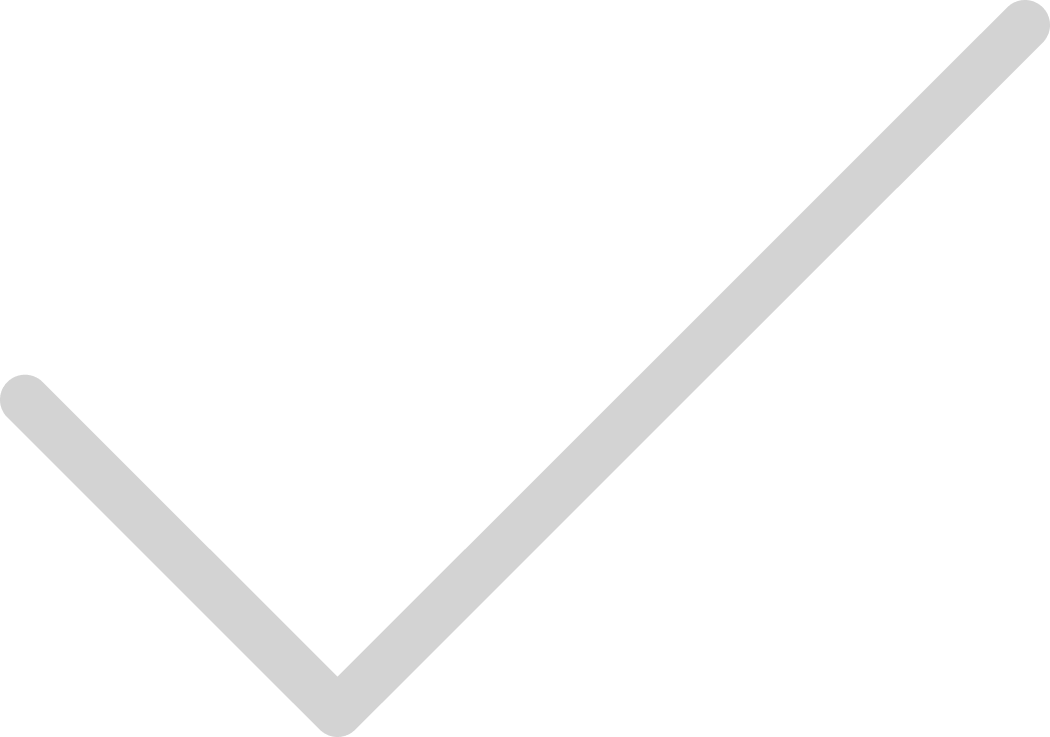
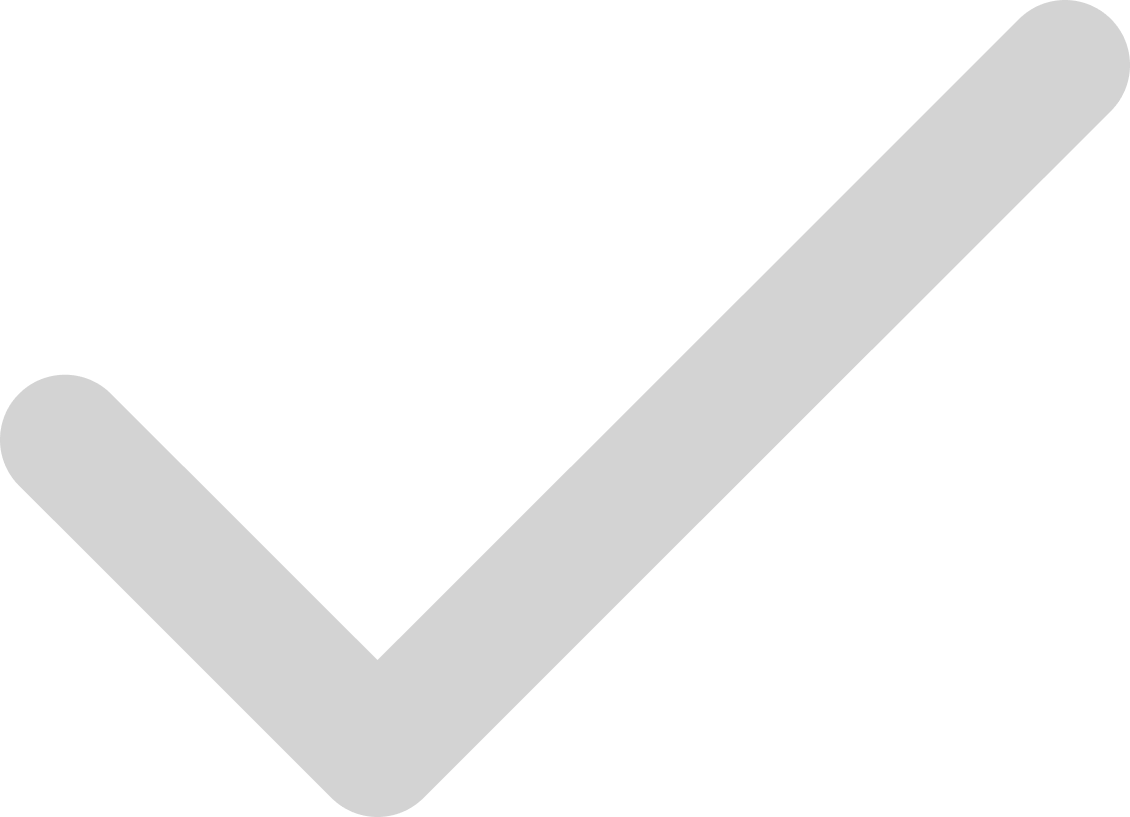
Avanzando con la vista de carrito

diff --git a/src/components/ResumenCarrito/ResumenCarrito.css b/src/components/ResumenCarrito/ResumenCarrito.css
@@ -5,23 +5,33 @@
   border: 2px solid #D5713C;
   border-radius: 10px;
   flex: 6;
-}
-
-.resumen__h3 {
-  padding: 20px;
-  background-color: rgba(46, 28, 20, 0.2);
-  color: white;
-  font-family: 'inter';
-  font-weight: 300;
-  font-size: 25px;
-  text-align: center;
+  align-items: center;
+  padding: 0 0 20px 0;
 }
 
 .resumen__div {
   display: flex;
   width: 90%;
   flex-direction: column;
-  padding: 15px;
+}
+
+.resumen__div:first-child {
+  padding: 20px 0;
+  background-color: rgba(46, 28, 20, 0.2);
+  color: white;
+  text-align: center;
+  width: 100%;
+}
+
+.resumen__div:nth-child(2) {
+  width: 90%;
+  margin: 15px 0;
+}
+
+.resumen__h3 {
+  font-family: 'inter';
+  font-weight: 300;
+  font-size: 25px;
 }
 
 .resumen__div-div {
@@ -30,11 +40,105 @@
   justify-content: space-between;
   align-items: center;
   color: #D3D3D3;
-  margin: 5px 0;
+  margin: 10px 0;
 }
 
 .resumen__div-div-h5 {
   font-family: 'inter';
   font-weight: 300;
+  font-size: 18px;
+}
+
+.descuento {
+  color: #D5713C;
+}
+
+.descuento-precio {
+  color: #D5713C;
+}
+
+.resumen__underline {
+  width: 90%;
+  height: 1px;
+  background-color: #C4744F;
+  margin-top: auto;
+}
+
+
+.resumen__div-total {
+  display: flex;
+  width: 90%;
+  align-items: center;
+  justify-content: space-between;
+  margin: 15px 0;
+}
+
+.total {
+  color: #D3D3D3;
+  font-family: 'inter';
+  font-size: 24px;
+  font-weight: 400;
+}
+
+.total-precio {
+  color: #D3D3D3;
+  font-family: 'inter';
+  font-weight: 400;
+  font-size: 16px;
+}
+
+.resumen__button {
+  width: 90%;
+  display: flex;
+  justify-content: space-between;
+  align-items: center;
+  padding: 12px 30px 12px 20px;
+  border-radius: 40px;
+  background-color: #713D25;
+  color: #D3D3D3;
+  border: none;
+  font-size: 20px;
+  margin: 10px 0;
+}
+
+.resumen__button img {
+  height: 25px;
+}
+
+.resumen__div-segura {
+  display: flex;
+  width: 90%;
+  align-items: center;
+  margin: 10px;
+  background-color: #362218;
+  border: 1px solid #D5713C;
+  border-radius: 10px;
+  padding: 5px 0;
+}
+
+.resumen__div-img {
+  height: 20px;
+  margin: 0 15px;
+}
+
+.resumen__div-div-segura {
+  display: flex;
+  flex-direction: column;
+  color: #D3D3D3;
+  padding: 5px 10px 5px 0;
+}
+
+.resumen__div-div-segura h3 {
+  font-family: 'inter';
+  color: #D3D3D3;
+  font-weight: 400;
+  margin: 5px 0 0 0;
   font-size: 15px;
+}
+
+.resumen__div-div-segura span {
+  font-family: 'inter';
+  color: #D3D3D3;
+  font-size: 11px;
+  margin: 5px 0;
 }

diff --git a/src/components/ResumenCarrito/ResumenCarrito.jsx b/src/components/ResumenCarrito/ResumenCarrito.jsx
@@ -1,10 +1,14 @@
 import iconoCheck from '../../assets/icon-check.png'
 import iconoBolsa from '../../assets/icon-bolsa.png'
 
+import './ResumenCarrito.css'
+
 function ResumenCarrito() {
   return (
     <article id="resumen">
-      <h3 className='resumen__h3'>Resumen de Compra</h3>
+      <div className='resumen__div'>
+        <h3 className='resumen__h3'>Resumen de Compra</h3>
+      </div>
       <div className='resumen__div'>
         <div className='resumen__div-div'>
           <h5 className='resumen__div-div-h5'>Café Colombiano...</h5>
@@ -15,19 +19,19 @@ function ResumenCarrito() {
           <span className='resumen__div-div-span'>$75.000</span>
         </div>
         <div className='resumen__div-div'>
-          <h5 className='resumen__div-div-h5'>Descuentos</h5>
-          <span className='resumen__div-div-span'>$-10.000</span>
+          <h5 className='resumen__div-div-h5 descuento'>Descuentos</h5>
+          <span className='resumen__div-div-span descuento-precio'>$-10.000</span>
         </div>
-        <div className='resumen__underline'></div>
       </div>
-      <div className='resumen__div'>
-        <h5 className='resumen__div-h5'>Total</h5>
-        <span className='resumen__div-span'>$65.000</span>
+      <div className='resumen__underline'></div>
+      <div className='resumen__div-total'>
+        <h5 className='resumen__div-h5 total'>Total</h5>
+        <span className='resumen__div-span total-precio'>$65.000</span>
       </div>
       <button className='resumen__button'>Finalizar Compra <img src={iconoBolsa} alt="" /></button>
-      <div className='resumen__div'>
+      <div className='resumen__div-segura'>
         <img className='resumen__div-img' src={iconoCheck} alt="" />
-        <div className='resumen__div-div'>
+        <div className='resumen__div-div-segura'>
           <h3 className='resumen__div-div-h3'>Compra 100% segura</h3>
           <span className='resumen__div-div-span'>Tus datos están protegidos en todo momento</span>
         </div>

diff --git a/src/components/ProductoCarrito/ProductoCarrito.css b/src/components/ProductoCarrito/ProductoCarrito.css
@@ -18,7 +18,7 @@
   justify-content: space-evenly;
   flex-direction: column;
   margin: 0 0 10px 0;
-  height: 50%;
+  height: 55%;
 }
 
 .producto__div-div-trash {
@@ -50,7 +50,7 @@
   text-decoration: underline;
   font-family: 'Playfair Display';
   font-weight: 100;
-  text-decoration-thickness: 0.5px;
+  text-decoration-thickness: 0.0001px;
 }
 
 .producto__div-div-principal {
@@ -59,7 +59,7 @@
   justify-content: center;
   margin: 15px 0;
   width: 90%;
-  height: 50%;
+  height: 55%;
 }
 
 .producto__div-div-img-principal {
@@ -114,8 +114,10 @@
   border-radius: 20px;
   display: flex;
   align-items: center;
-  justify-content: center;
+  justify-content: space-between;
   flex-direction: column;
+  flex: 1;
+  margin: 10px 0 0 0;
 }
 
 .producto__div-div {
@@ -128,7 +130,7 @@
 
 .producto__div-div-h3 {
   font-family: 'Playfair Display';
-  font-weight: 200;
+  font-weight: 100;
   font-size: 30px;
   color: white;
   padding: 10px 25px;
@@ -137,12 +139,12 @@
 .producto__divp {
   color: #D3D3D3;
   padding: 0px 25px;
-  margin: 20px 0;
+  margin: 15px 0;
 }
 
 .producto__div-img {
   width: 100%;
-  height: 40px;
+  height: 50px;
   object-fit: cover;
   border-radius: 0 0 20px 20px;
 }

diff --git a/src/pages/Carrito/Carrito.css b/src/pages/Carrito/Carrito.css
@@ -4,10 +4,10 @@ img {
 
 .Carrito {
   display: flex;
-  height: 100vh;
+  height: 90vh;
   background-image: url('../../assets/fondos/fondo3.1.0.png');
   background-position: center;
   background-repeat: no-repeat;
   background-size: cover;
-  padding: 30px;
+  padding: 90px 30px;
 }
